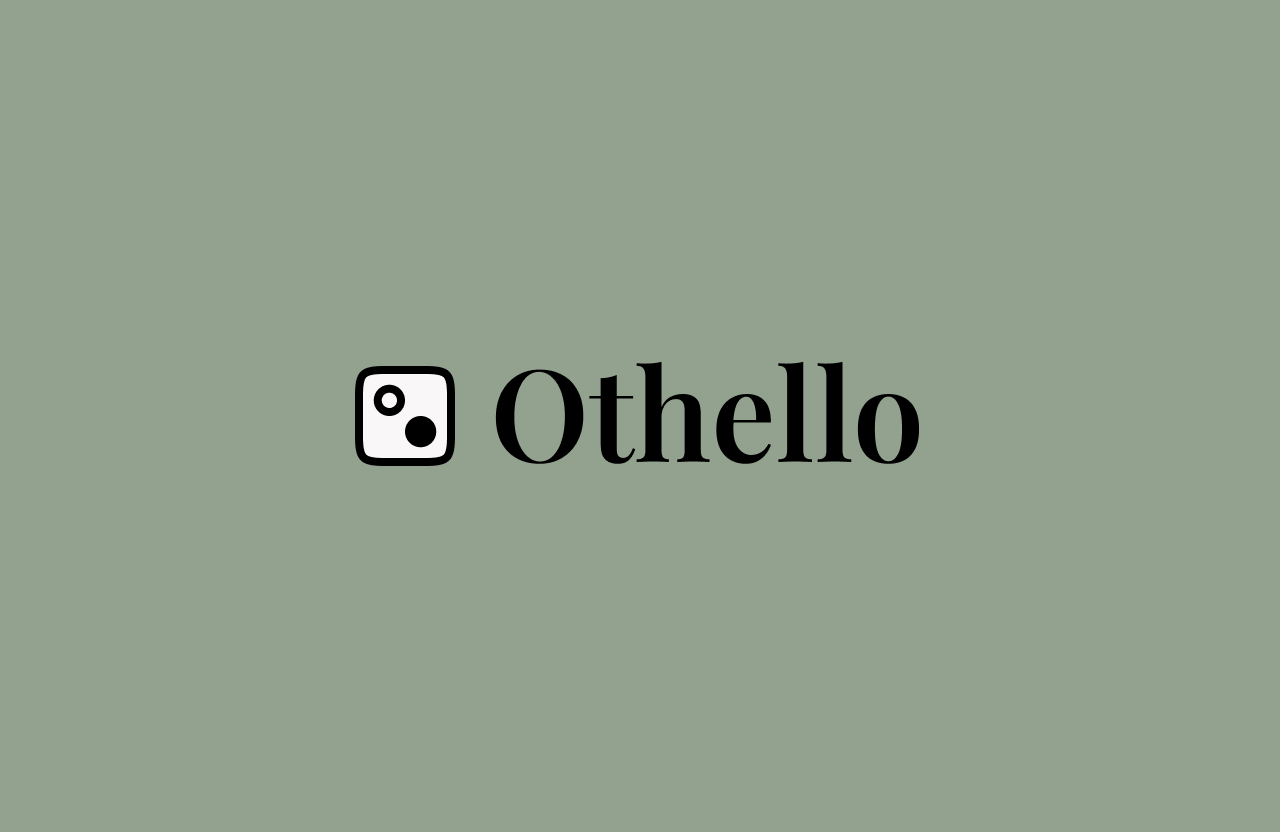
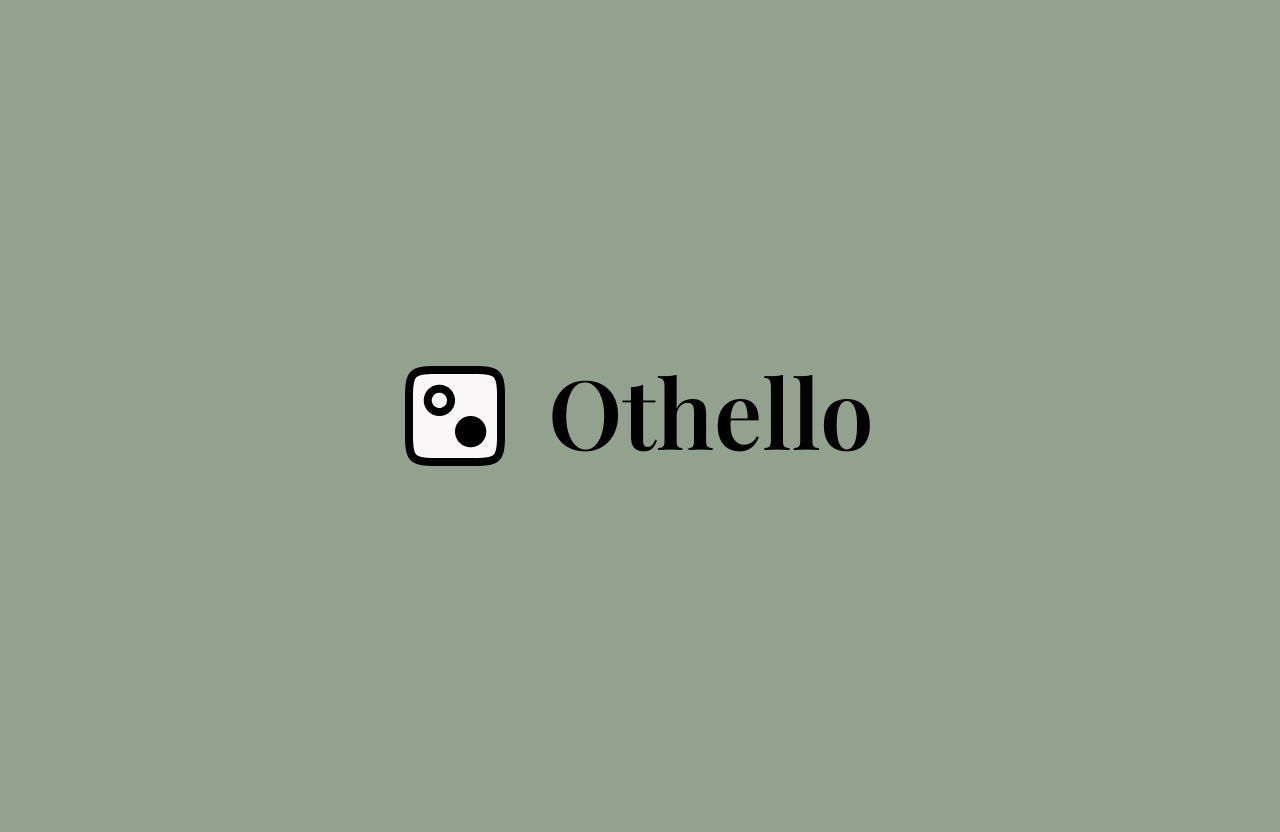
✨ add projects content

Changed region(s): [[0.25, 0.4375, 0.7188, 0.5625]]

diff --git a/src/utils/content.js b/src/utils/content.js
@@ -11,13 +11,24 @@ export const files = [
     wiki: 'https://github.com/lelinguine/sitomnia-project/wiki',
     github: 'https://github.com/lelinguine/sitomnia-project',
     figma: 'https://www.figma.com/community/file/1522331991896573429',
+    images: [
+      {
+        src: new URL('./../assets/screenshots/sitomnia/1.png', import.meta.url).href,
+        alt: 'Sitomnia - Home screen',
+      },
+      {
+        src: new URL('./../assets/screenshots/sitomnia/2.png', import.meta.url).href,
+        alt: 'Sitomnia - Calendar screen',
+      },
+    ],
   },
   {
     id: 'bernalis',
     title: 'Bernalis',
     date: '05.2025',
     cover: new URL('./../assets/covers/bernalis.png', import.meta.url).href,
-    description: `TODO`,
+    description: `Bernalis is a shared-living management app designed to simplify day-to-day organization for housemates. It centralizes key information in a shared calendar, allowing users to coordinate schedules and track household chores collaboratively. The app also features smart grocery list management, along with a system for tracking expenses and reimbursements to facilitate cost-sharing among residents.\n
+      Tailored to a young audience—particularly students living in shared accommodation—Bernalis boasts a modern, intuitive, and attractive interface. It delivers a smooth, enjoyable user experience while addressing the practical needs of communal living.`,
     link: 'https://www.figma.com/proto/uAJFoIITJLfz5WiYJgg5tr/Bernalis?node-id=64-131&p=f&t=3ckZYj7hMAar5GvT-1&scaling=scale-down&content-scaling=fixed&page-id=0%3A1&starting-point-node-id=1%3A16',
     figma: 'https://www.figma.com/community/file/1507827698115770120',
   },
@@ -26,16 +37,29 @@ export const files = [
     title: 'Othello',
     date: '02.2025',
     cover: new URL('./../assets/covers/othello.png', import.meta.url).href,
-    description: `TODO`,
+    description: `Othello is an application for playing the famous strategy game of the same name. It offers several game modes tailored to different types of players. You can play against an AI using the Alpha-Beta Pruning algorithm, which is capable of anticipating future moves and selecting the most advantageous actions to maximize its chances of winning.\n
+      The application also features a local multiplayer mode that allows two players to compete on the same board. Finally, a demonstration mode lets you watch a match between two AIs: one using the Alpha-Beta Pruning algorithm and the other employing a random strategy. This mode highlights the performance and behavioral differences between the two approaches.`,
     link: 'https://othello.valentinluginbuhl.fr',
+    stack: 'VueJS',
     github: 'https://github.com/lelinguine/othello-project',
+  },
+  {
+    id: 'minesweeper',
+    title: 'Minesweeper',
+    date: '04.2024',
+    cover: new URL('./../assets/covers/minesweeper.png', import.meta.url).href,
+    description: `Minesweeper is a mobile app that reimagines the classic Minesweeper game with a modern, intuitive, and fun interface. Designed to provide an enjoyable gaming experience, it combines polished design with ease of use, allowing players to enjoy an appealing version of this all-time classic.`,
+    link: 'https://minesweeper.valentinluginbuhl.fr',
+    stack: 'Flutter',
+    github: 'https://github.com/lelinguine/minesweeper-project',
   },
   {
     id: 'brainine',
     title: 'Brainine',
     date: '02.2023',
     cover: new URL('./../assets/covers/brainine.png', import.meta.url).href,
-    description: `TODO`,
+    description: `Brainine is a mobile app designed to boost mental math skills through a series of engaging challenges. It offers several game modes to suit different user goals and playing styles.\n
+      Sprinter mode focuses on endurance, challenging the player to solve as many math problems as possible without making a mistake. Master mode rewards both accuracy and speed as players aim for the highest possible score. Finally, Survival mode offers a tougher challenge: the player is allowed only three errors before the game ends.`,
     link: 'https://www.figma.com/proto/HE3G74FrhRfSImeeC4eCCH/Brainine?node-id=2-757&p=f&viewport=989%2C460%2C0.16&t=ApR0uE5dZvFCHAKP-1&scaling=scale-down&content-scaling=fixed&starting-point-node-id=2%3A819&page-id=0%3A1',
     figma: 'https://www.figma.com/community/file/1308490173999723476',
   },
@@ -44,8 +68,10 @@ export const files = [
     title: 'Supervision',
     date: '06.2022',
     cover: new URL('./../assets/covers/supervision.png', import.meta.url).href,
-    description: `TODO`,
+    description: `Supervision is an educational solution designed to raise user awareness regarding the impact of noise in environments such as schools, canteens, or communal areas. It measures ambient noise levels and displays them visually using various alert levels, helping occupants understand how noise affects their well-being and their surroundings.\n
+      The solution consists of a setup comprising a sound sensor, an LED lighting system, and a display screen that communicates the measured noise level and related awareness-raising messages in real time. It also includes a mobile app and a web interface, enabling users to view recorded measurement history, analyze noise levels, and remotely monitor the entire system.`,
     link: 'https://supervision.valentinluginbuhl.fr',
+    stack: 'Web, Xamarin, Slim, Raspberry',
     github: 'https://github.com/lelinguine/supervision-project',
   },
 ]

diff --git a/src/views/project.vue b/src/views/project.vue
@@ -29,13 +29,19 @@ import Link from '../components/link.vue'
       {{ currentProject.description }}
     </p>
 
-    <p>TODO : img</p>
+    <img
+      v-for="image in currentProject.images"
+      :key="image.src"
+      :src="image.src"
+      :alt="image.alt"
+      loading="lazy"
+    />
 
-    <ul class="link-list">
-      <li
-        class="link"
-        v-if="currentProject.stack"
-      >
+    <ul
+      class="link-list"
+      v-if="currentProject.stack"
+    >
+      <li class="link">
         <p>Stack:</p>
         <span>{{ currentProject.stack }}</span>
       </li>